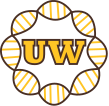
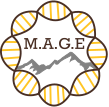
facelift

diff --git a/index.html b/index.html
@@ -5,7 +5,7 @@ subtitle:
 ---
 
 
-Welcome to the newly created website for the Molecular Anthropology Laboratory at the University of Wyoming. More to come!
+Welcome to the newly created website for the M.A.G.E. Laboratory at the University of Wyoming. More to come!
 
 <br>
 <br>
@@ -25,10 +25,11 @@ img {vertical-align: middle;}
   max-width: 1000px;
   position: relative;
   margin: auto;
+  text-align:center;
 }
 
 /* Next & previous buttons */
-.prev, .next {
+.next {
   cursor: pointer;
   position: absolute;
   top: 50%;
@@ -50,7 +51,7 @@ img {vertical-align: middle;}
 }
 
 /* On hover, add a black background color with a little bit see-through */
-.prev:hover, .next:hover {
+.next:hover {
   background-color: rgba(0,0,0,0.8);
 }
 
@@ -104,7 +105,7 @@ img {vertical-align: middle;}
 
 /* On smaller screens, decrease text size */
 @media only screen and (max-width: 300px) {
-  .prev, .next,.text {font-size: 11px}
+  .next,.text {font-size: 11px}
 }
 </style>
 </head>
@@ -113,24 +114,29 @@ img {vertical-align: middle;}
 <div class="slideshow-container">
 
 <div class="mySlides fade">
-  <div class="numbertext">1 / 3</div>
+  <div class="numbertext">1 / 4</div>
+  <img src="assets/img/uwmal_logo.png" style="width:50%">
+  <div class="text"></div>
+</div>
+
+<div class="mySlides fade">
+  <div class="numbertext">2 / 4</div>
   <img src="assets/img/samples.jpg" style="width:100%">
   <div class="text"></div>
 </div>
 
 <div class="mySlides fade">
-  <div class="numbertext">2 / 3</div>
+  <div class="numbertext">3 / 4</div>
   <img src="assets/img/Fig3_R1b_network.png" style="width:100%", style="height:25px">
   <div class="text"></div>
 </div>
 
 <div class="mySlides fade">
-  <div class="numbertext">3 / 3</div>
+  <div class="numbertext">4 / 4</div>
   <img src="assets/img/subway_map.png" style="width:100%">
   <div class="text"></div>
 </div>
 
-<a class="prev" onclick="plusSlides(-1)">❮</a>
 <a class="next" onclick="plusSlides(1)">❯</a>
 
 </div>

diff --git a/facilities.md b/facilities.md
@@ -1,0 +1,7 @@
+---
+layout: page
+title: Lab
+subtitle: 
+---
+
+Coming soon!!
